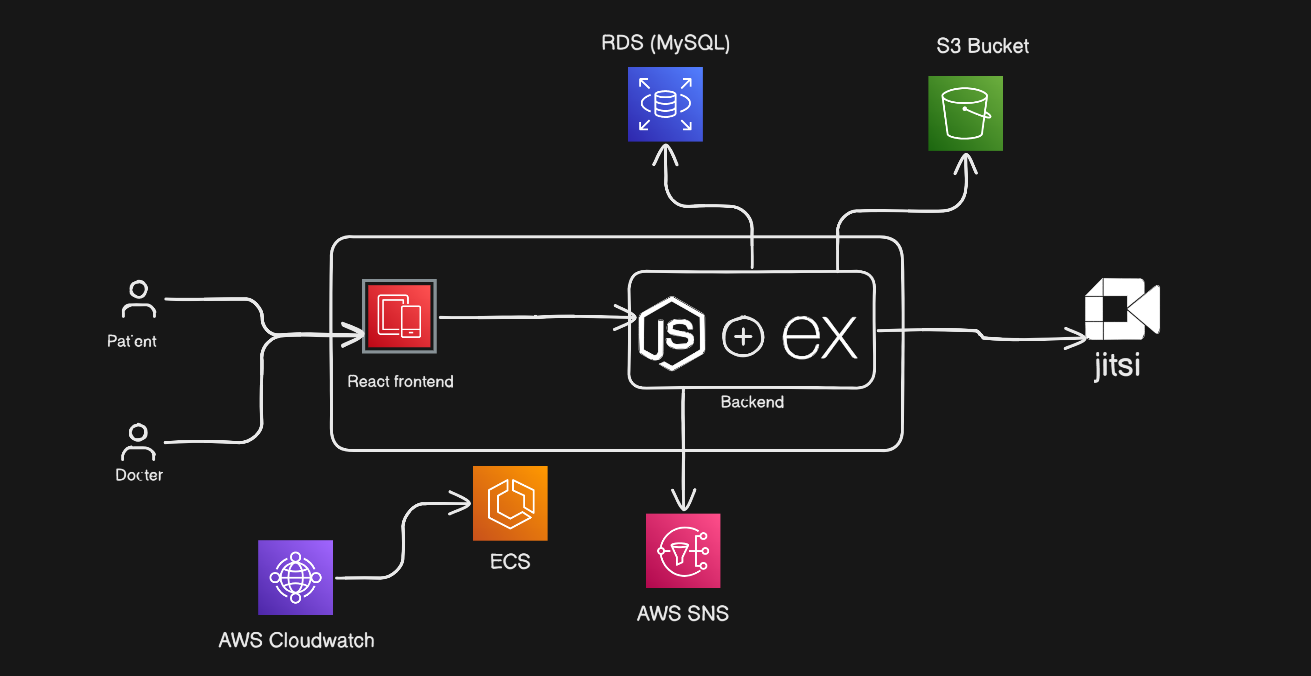
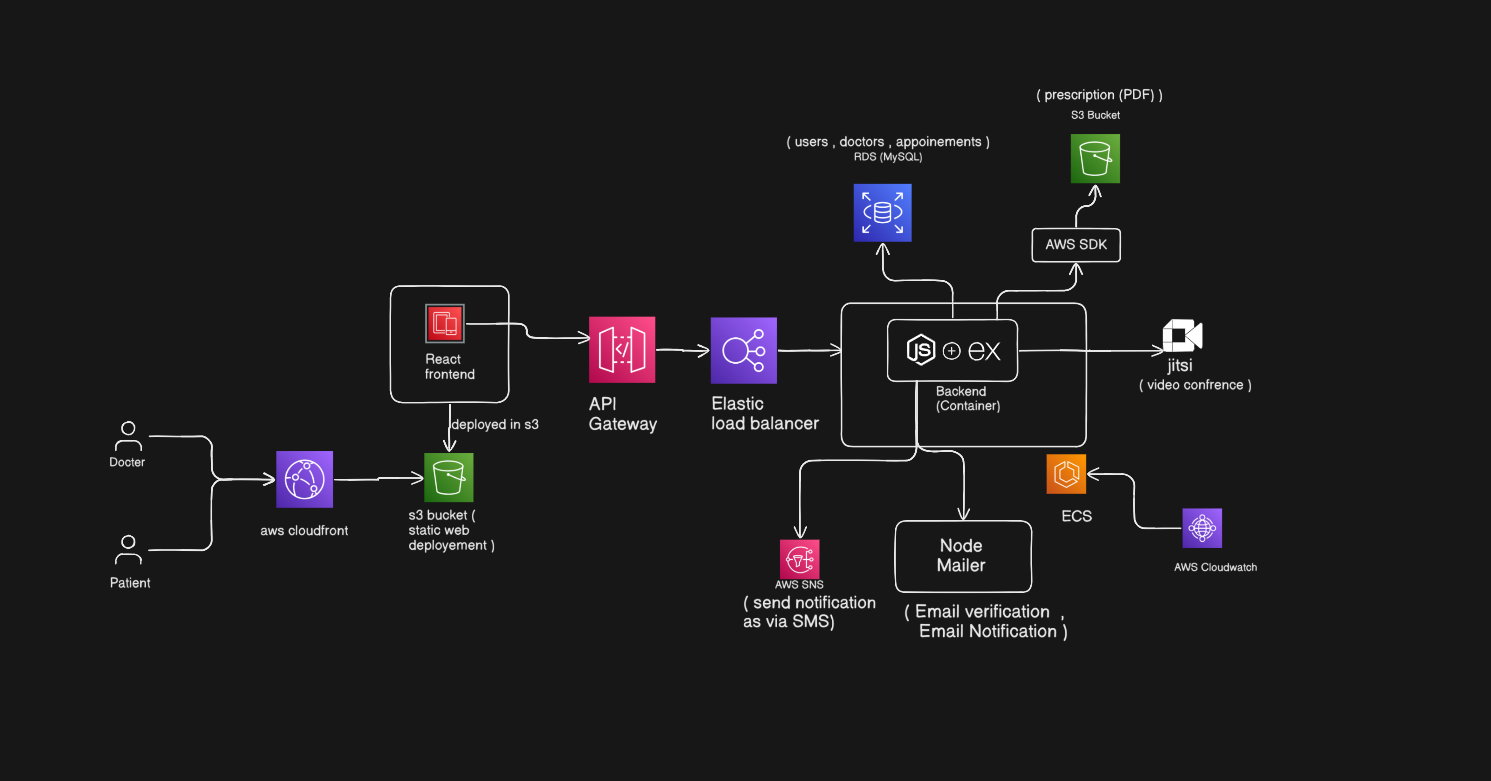
completed project

diff --git a/readme.md b/readme.md
@@ -1,4 +1,71 @@
-# Architecture of the Project
+# Clinic Management System
 
-![alt text](./architecture.png)
+A comprehensive, production-ready Cloud Clinic Management System with role-based dashboards (Patient/Doctor), video consultations, dynamically generated PDF prescriptions, and scalable cloud infrastructure.
 
+## Architecture
+
+![Architecture Diagram](./architecture.png)
+
+## Overview
+
+The platform provides a seamless digital healthcare experience where patients can book appointments with doctors based on specialization, participate in secure video sessions, and manage their health records and prescriptions securely.
+
+The repository is modularized into two main services:
+- **[Frontend](./frontend/)**: A responsive React (Vite) application utilizing React Router and a customizable CSS design system.
+- **[Backend](./backend/)**: A robust Express.js API connecting to MySQL (Sequelize ORM) and AWS Services (S3, SES, SNS) for cloud storage and communication.
+
+## Key Features
+
+### Users & Authentication
+- **Role-based Access**: Dedicated features for `Patient` and `Doctor` profile types.
+- **Secure Authentication**: JWT-based session management, securely hashed passwords with bcrypt.
+- **Verification**: OTP via Email (AWS SES / Nodemailer) and SMS (AWS SNS) for reliable user validation.
+- **Account Control**: Data privacy compliance with complete account deletion options.
+
+### Consultations & Appointments
+- **Appointment Lifecycle**: Patients browse doctors by specialization to book slots. Doctors review, accept, complete, or archive past appointments.
+- **Telemedicine Sessions**: Easy "Join Video Session" endpoints that seamlessly launch secure Jitsi Meet iframes.
+
+### Prescriptions as PDF
+- Complete Rx directly from the dashboard. The backend dynamically merges notes and details into a professional PDF using `pdfkit`.
+- Automated, secure upload to **AWS S3** and rapid retrieval for patient download.
+
+## Technology Stack
+
+| Layer | Tools & Technologies |
+|---|---|
+| **Frontend** | React 18, Vite, React Router v6, Axios, Lucide Icons, Custom CSS |
+| **Backend API** | Node.js 20, Express, Express-Validator, Helmet, Morgan |
+| **Database** | MySQL 8 (Amazon RDS), Sequelize ORM v6 |
+| **Cloud Services** | AWS S3 (Storage), AWS SES (Email), AWS SNS (SMS) |
+| **Video Integration** | Jitsi Meet Iframe API |
+| **Containerization** | Docker, Docker Compose (Ready for AWS ECS/Fargate) |
+
+## Getting Started
+
+You can run the full stack locally. Ensure both the API and client applications are running simultaneously.
+
+### 1. Prerequisites
+- Node.js 20+
+- MySQL 8 Instance
+- AWS Account (IAM Credentials for S3 / SES / SNS)
+- Docker (Optional)
+
+### 2. Run the Backend API
+For full database, Docker, and environment variable configuration, please read the [Backend README](./backend/README.md).
+```bash
+cd backend
+npm install
+# Configure your environment variables
+cp .env.example .env 
+npm run dev
+```
+
+### 3. Run the Frontend Client
+The React app connects to `http://localhost:5000` by default. Read the [Frontend README](./frontend/README.md) for more details.
+```bash
+cd frontend
+npm install
+# Set VITE_API_URL=http://localhost:5000/api/v1 in .env
+npm run dev
+```
